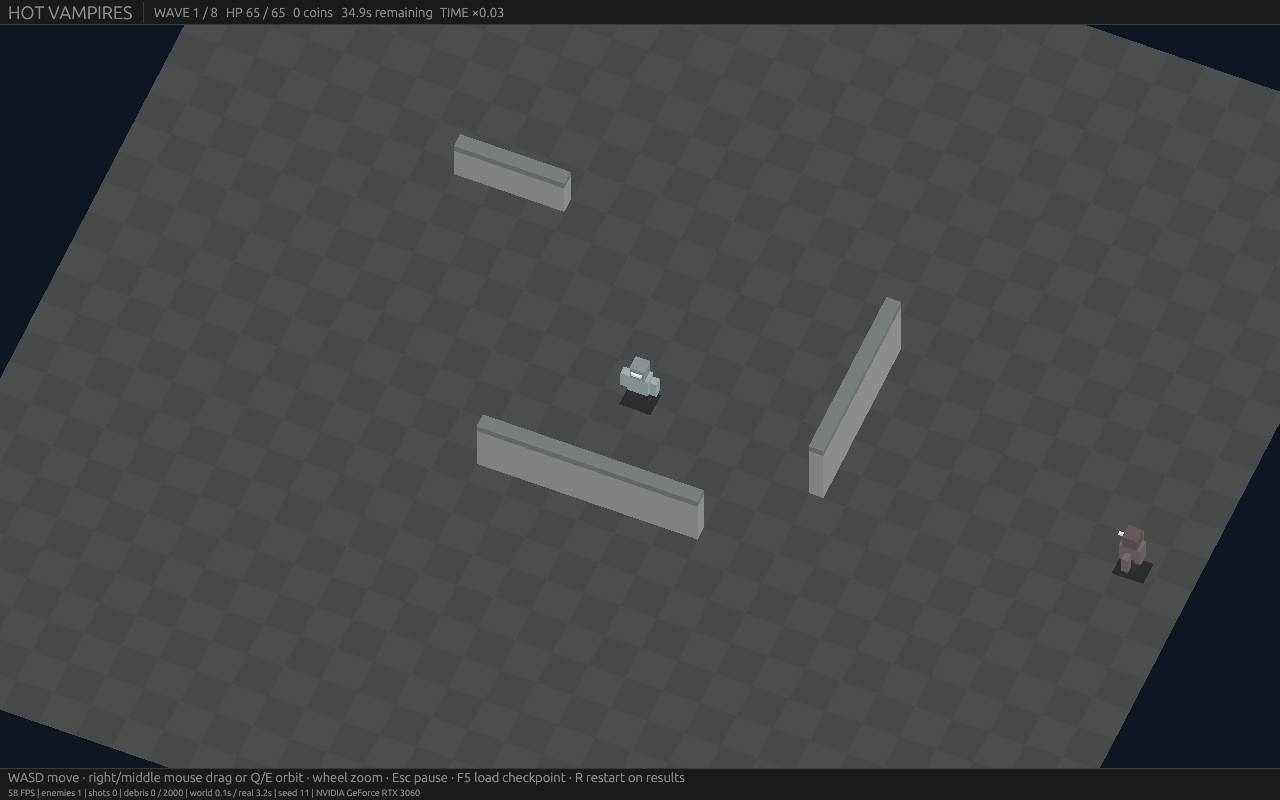
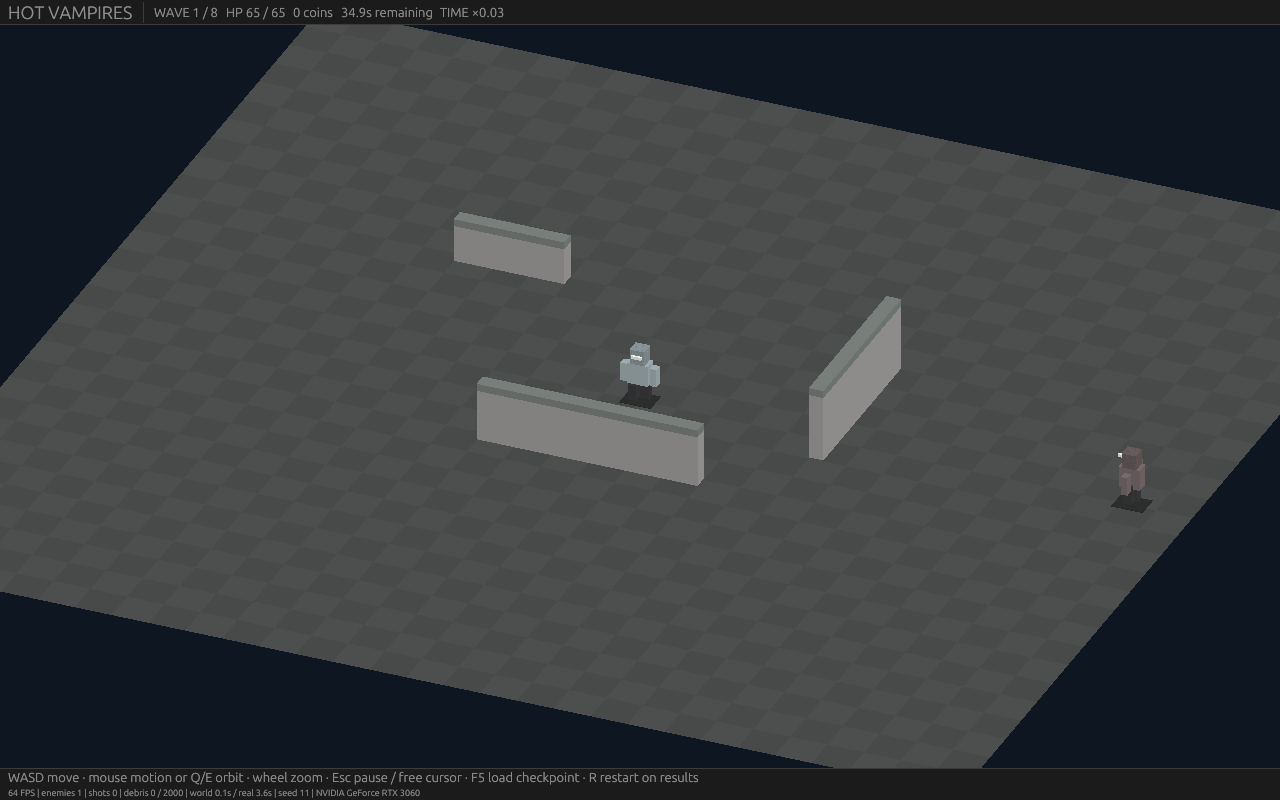
Enable automatic mouse orbit outside dialogs and lower camera to 30 degrees

diff --git a/src/main.rs b/src/main.rs
@@ -12,7 +12,7 @@ use glam::Vec2;
 use std::{collections::HashSet, time::Instant};
 use winit::{
     application::ApplicationHandler,
-    event::{DeviceEvent, DeviceId, ElementState, MouseButton, MouseScrollDelta, WindowEvent},
+    event::{DeviceEvent, DeviceId, ElementState, MouseScrollDelta, WindowEvent},
     event_loop::{ActiveEventLoop, EventLoop},
     keyboard::{KeyCode, PhysicalKey},
     window::{CursorGrabMode, Window, WindowId},
@@ -30,7 +30,7 @@ struct App {
     focused: bool,
     last: Instant,
     notice: String,
-    orbit_buttons: HashSet<MouseButton>,
+    mouse_look_active: bool,
     bot: bool,
     bot_input: Vec2,
     bot_frame: u32,
@@ -55,7 +55,7 @@ impl App {
             focused: true,
             last: Instant::now(),
             notice: String::new(),
-            orbit_buttons: HashSet::new(),
+            mouse_look_active: false,
             bot,
             bot_input: Vec2::ZERO,
             bot_frame: 0,
@@ -66,19 +66,34 @@ impl App {
             ui_smoke: false,
         }
     }
-    fn release_orbit(&mut self) {
-        self.orbit_buttons.clear();
+    fn mouse_look_enabled(&self) -> bool {
+        self.focused
+            && !self.paused
+            && self.game.phase == sim::Phase::Combat
+            && self.window.as_ref().is_some_and(|w| {
+                let size = w.inner_size();
+                size.width > 0 && size.height > 0
+            })
+    }
+    fn update_mouse_look(&mut self) {
+        let active = self.mouse_look_enabled();
+        if active == self.mouse_look_active {
+            return;
+        }
+        self.mouse_look_active = active;
         if let Some(window) = &self.window {
-            let _ = window.set_cursor_grab(CursorGrabMode::None);
-            window.set_cursor_visible(true);
+            if active {
+                let _ = window
+                    .set_cursor_grab(CursorGrabMode::Locked)
+                    .or_else(|_| window.set_cursor_grab(CursorGrabMode::Confined));
+            } else {
+                let _ = window.set_cursor_grab(CursorGrabMode::None);
+            }
+            window.set_cursor_visible(!active);
         }
     }
     fn redraw(&mut self, el: &ActiveEventLoop) {
-        if !self.orbit_buttons.is_empty()
-            && (self.paused || !self.focused || self.game.phase != sim::Phase::Combat)
-        {
-            self.release_orbit();
-        }
+        self.update_mouse_look();
         let window = self.window.as_ref().unwrap();
         if window.inner_size().width == 0 || window.inner_size().height == 0 {
             self.last = Instant::now();
@@ -109,7 +124,9 @@ impl App {
             }
         } else if self.focused && !self.paused {
             let key = |k| if self.keys.contains(&k) { 1.0 } else { 0.0 };
-            self.yaw += (key(KeyCode::KeyE) - key(KeyCode::KeyQ)) * dt * 1.8;
+            if self.mouse_look_enabled() {
+                self.yaw += (key(KeyCode::KeyE) - key(KeyCode::KeyQ)) * dt * 1.8;
+            }
             let input = if self.bot {
                 if self.game.phase == sim::Phase::Shop {
                     playtest::shop_actions(&mut self.game, "mobile");
@@ -226,6 +243,8 @@ impl App {
         } else {
             window.request_redraw();
         }
+        // UI actions may open/close a dialog during this frame.
+        self.update_mouse_look();
     }
 }
 impl ApplicationHandler for App {
@@ -262,6 +281,7 @@ impl ApplicationHandler for App {
         self.window = Some(window);
         self.last = Instant::now();
         self.window.as_ref().unwrap().request_redraw();
+        self.update_mouse_look();
     }
     fn window_event(&mut self, el: &ActiveEventLoop, _id: WindowId, event: WindowEvent) {
         if let (Some(gui), Some(window)) = (&mut self.gui, &self.window) {
@@ -282,7 +302,6 @@ impl ApplicationHandler for App {
             WindowEvent::Focused(f) => {
                 self.focused = f;
                 self.keys.clear();
-                self.release_orbit();
                 self.last = Instant::now();
             }
             WindowEvent::KeyboardInput { event, .. } => {
@@ -315,29 +334,7 @@ impl ApplicationHandler for App {
                     }
                 }
             }
-            WindowEvent::MouseInput { button, state, .. }
-                if matches!(button, MouseButton::Right | MouseButton::Middle) =>
-            {
-                if state == ElementState::Released {
-                    self.orbit_buttons.remove(&button);
-                    if self.orbit_buttons.is_empty() {
-                        self.release_orbit();
-                    }
-                } else if self.focused
-                    && !self.paused
-                    && self.game.phase == sim::Phase::Combat
-                    && !self.ctx.wants_pointer_input()
-                {
-                    self.orbit_buttons.insert(button);
-                    if let Some(window) = &self.window {
-                        let _ = window
-                            .set_cursor_grab(CursorGrabMode::Locked)
-                            .or_else(|_| window.set_cursor_grab(CursorGrabMode::Confined));
-                        window.set_cursor_visible(false);
-                    }
-                }
-            }
-            WindowEvent::MouseWheel { delta, .. } => {
+            WindowEvent::MouseWheel { delta, .. } if self.mouse_look_enabled() => {
                 let amount = match delta {
                     MouseScrollDelta::LineDelta(_, y) => y,
                     MouseScrollDelta::PixelDelta(p) => p.y as f32 * 0.03,
@@ -346,13 +343,11 @@ impl ApplicationHandler for App {
             }
             _ => {}
         }
+        self.update_mouse_look();
     }
     fn device_event(&mut self, _el: &ActiveEventLoop, _id: DeviceId, event: DeviceEvent) {
         if let DeviceEvent::MouseMotion { delta: (dx, _) } = event
-            && !self.orbit_buttons.is_empty()
-            && self.focused
-            && !self.paused
-            && self.game.phase == sim::Phase::Combat
+            && self.mouse_look_enabled()
         {
             // Relative horizontal motion orbits around world Y; never enters movement activity.
             self.yaw = (self.yaw + dx as f32 * 0.006).rem_euclid(std::f32::consts::TAU);

diff --git a/src/ui.rs b/src/ui.rs
@@ -21,7 +21,7 @@ pub fn draw(
             ui.label(format!("TIME ×{:.2}", game.scale));
         });
     });
-    egui::TopBottomPanel::bottom("help").show(ctx,|ui|{ui.label("WASD move · right/middle mouse drag or Q/E orbit · wheel zoom · Esc pause · F5 load checkpoint · R restart on results");ui.small(format!("{fps:.0} FPS | enemies {} | shots {} | debris {} / {} | world {:.1}s / real {:.1}s | seed {} | {}",game.enemies.len(),game.shots.len(),game.debris.len(),game.config.debris_budget,game.world,game.real,game.seed,adapter));});
+    egui::TopBottomPanel::bottom("help").show(ctx,|ui|{ui.label("WASD move · mouse motion or Q/E orbit · wheel zoom · Esc pause / free cursor · F5 load checkpoint · R restart on results");ui.small(format!("{fps:.0} FPS | enemies {} | shots {} | debris {} / {} | world {:.1}s / real {:.1}s | seed {} | {}",game.enemies.len(),game.shots.len(),game.debris.len(),game.config.debris_budget,game.world,game.real,game.seed,adapter));});
     if game.phase == Phase::Shop {
         let mut changed = false;
         egui::Window::new("Between waves — build workshop").collapsible(false).resizable(false).default_width(690.0).anchor(egui::Align2::CENTER_CENTER,[0.0,0.0]).show(ctx,|ui| {

diff --git a/src/render.rs b/src/render.rs
@@ -678,7 +678,14 @@ impl SceneCache {
         let alpha = game.alpha();
         let p = game.prev_player.lerp(game.player, alpha);
         let center = Vec3::new(p.x, 0.0, p.y);
-        let eye = center + Vec3::new(yaw.sin() * 18.0, 25.0, yaw.cos() * 18.0);
+        let elevation = 30.0_f32.to_radians();
+        let horizontal = 31.0 * elevation.cos();
+        let eye = center
+            + Vec3::new(
+                yaw.sin() * horizontal,
+                31.0 * elevation.sin(),
+                yaw.cos() * horizontal,
+            );
         let view = Mat4::look_at_rh(eye, center, Vec3::Y);
         let projection =
             Mat4::orthographic_rh(-zoom * aspect, zoom * aspect, -zoom, zoom, 0.1, 80.0);

diff --git a/RUNNING.md b/RUNNING.md
@@ -13,7 +13,7 @@ cargo run --offline
 
 Remove `--offline` on a fresh machine if the crates have not been downloaded. No installation or files outside the project are needed at runtime. Run from this folder so checkpoints and reports stay here.
 
-WASD moves relative to the camera. Hold right or middle mouse and move horizontally to orbit around the vertical Y axis; relative input permits continuous rotation without reaching the screen edge. Q/E also rotates, and the wheel zooms. Releasing the button, pausing, losing focus or entering the shop restores the cursor. Escape pauses. Standing still advances combat at 3% speed; camera input does not affect it. The world smoothly desaturates to nearly monochrome as combat slows, returning to full color while moving; HUD and shop remain unaffected. Holding movement against a wall counts as attempted movement and restores full speed. All weapons and skills activate automatically. Gold cubes are currency; bright pink cubes are hostile shots; small muted fragments are harmless. F5 restores the most recent shop checkpoint. R restarts after death or victory.
+WASD moves relative to the camera. Move the mouse horizontally to orbit around the vertical Y axis, without holding any button; relative input permits continuous rotation without reaching the screen edge. The camera sits 30 degrees above the ground. Q/E also rotates, and the wheel zooms. Camera controls are inactive while a pause, shop or results dialog is shown. The cursor is released and visible in dialogs or when focus is lost, and captured automatically when gameplay resumes. Escape pauses and frees the cursor. Standing still advances combat at 3% speed; camera input does not affect it. The world smoothly desaturates to nearly monochrome as combat slows, returning to full color while moving; HUD and shop remain unaffected. Holding movement against a wall counts as attempted movement and restores full speed. All weapons and skills activate automatically. Gold cubes are currency; bright pink cubes are hostile shots; small muted fragments are harmless. F5 restores the most recent shop checkpoint. R restarts after death or victory.
 
 Survive eight 35-world-second waves. The final elite must also die before victory. Every intervening shop offers four cards, paid healing, escalating rerolls, offer locks, selling, and upgrades. Weapons use three slots, skills four, and items no slots. The starter Needle has no sale refund. Keep at least one weapon. Cards currently all have common rarity.
 

diff --git a/STATUS.md b/STATUS.md
@@ -1,6 +1,6 @@
 # Current status
 
-Mouse camera update: right/middle drag uses relative horizontal motion to orbit around world Y, with cursor capture released on pause, focus loss and leaving combat. Combat colors smoothly desaturate with the shared time scale; the UI and shop retain their colors.
+Mouse camera update: relative horizontal mouse motion automatically orbits around world Y with no button required. The camera elevation is 30 degrees above the ground. Camera controls and cursor capture are disabled in pause, shop and results dialogs and on focus loss, then restored on return to gameplay. Combat colors smoothly desaturate with the shared time scale; the UI and shop retain their colors.
 
 A playable first vertical slice exists: direct Rust/ash Vulkan rendering, camera-relative controls, nonzero slow motion, automatic combat, three weapons, six passive skills, twelve items, eight waves and a final elite, working between-wave shop, checkpoint saves, destructible cover, localized enemy chips and bounded breakup fragments. The indestructible ground has no destruction API. Cover occupancy is shared by collision, visibility and deterministic obstacle-clearing behavior; it persists through shops and loading.
 
